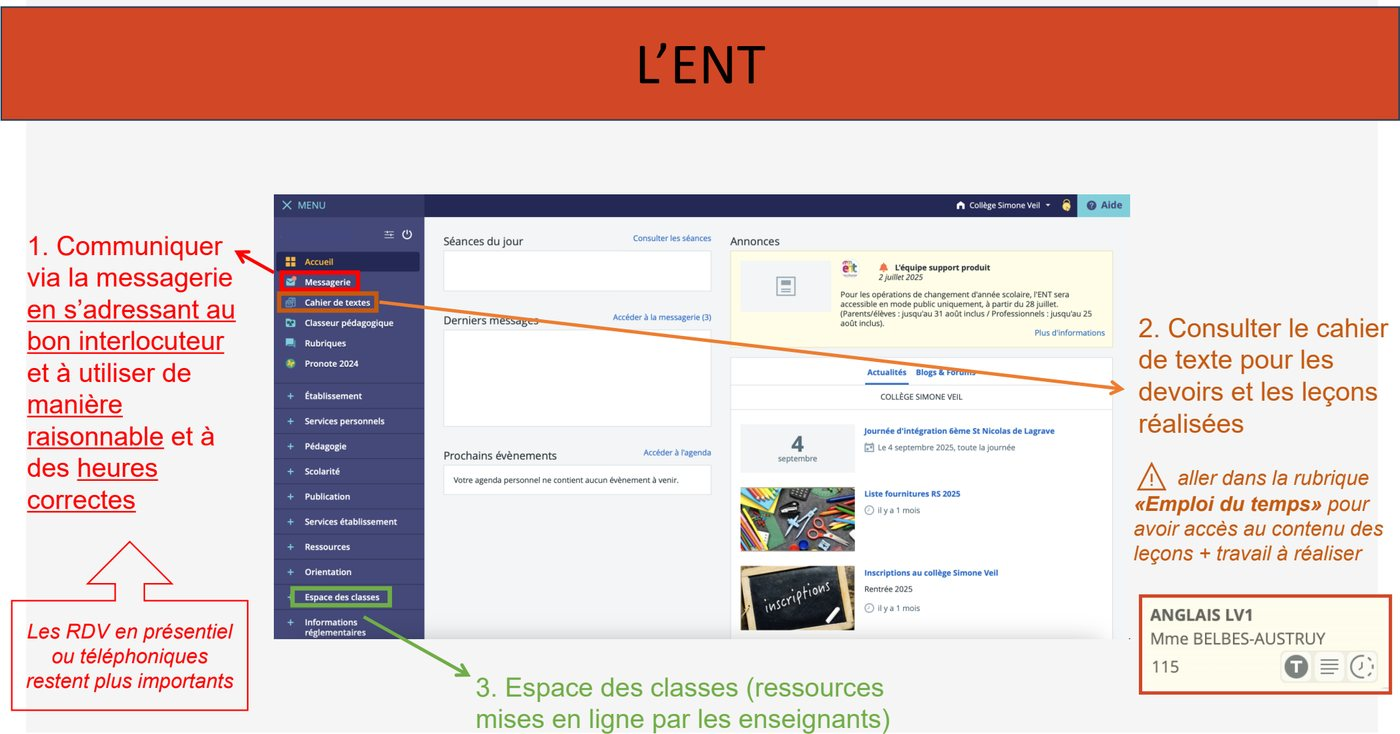
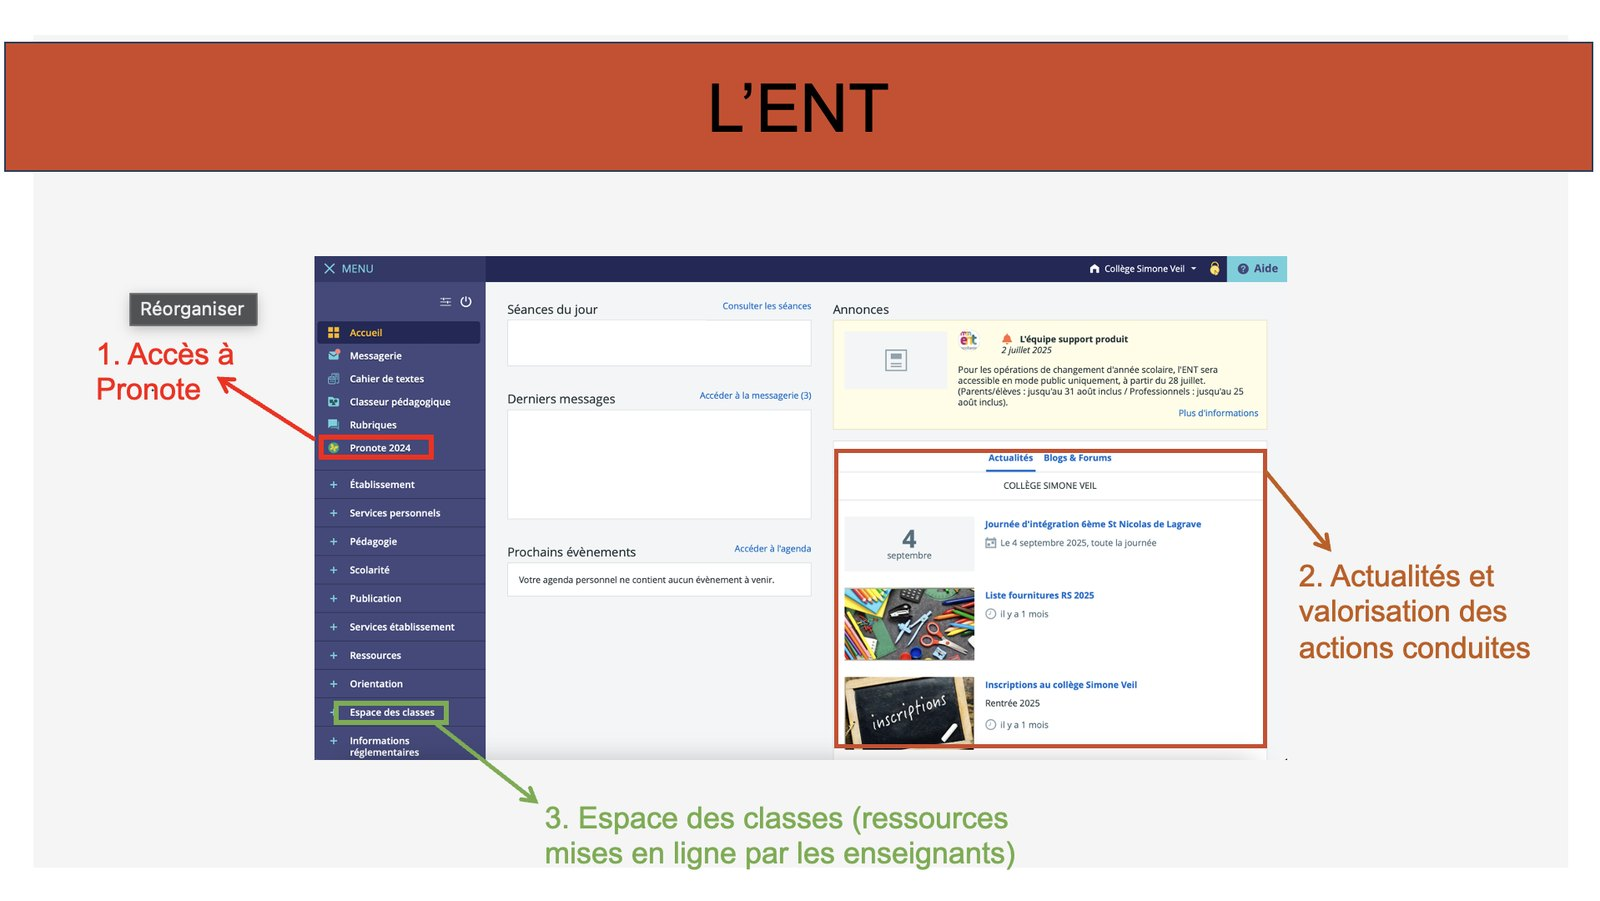
Mon entree en 6e : rubrique ENT et Pronote mise a jour
Ce qui change cette annee
- Un paragraphe d'introduction annonce que Pronote devient l'outil unique
  de reference (cahier de textes, travail a faire, notes et competences,
  messagerie) et que l'ENT garde le casier numerique, la valorisation des
  actions conduites et l'acces a Pronote.

A quoi sert l'ENT
- Nouvelle liste en trois points : espace des classes, actualites et
  valorisation des actions conduites, acces a Pronote. L'ancienne liste
  parlait de messagerie et de cahier de textes, qui relevent desormais de
  Pronote.

A quoi sert Pronote
- Six points, dans l'ordre de la diapositive de la reunion de rentree.
  Deux ajouts : prevenir d'une absence et informer d'une dispense
  ponctuelle ; consulter le cahier de textes et le travail a faire.
- L'encadre « c'est l'agenda qui fait foi » quitte la partie ENT et
  descend au point du cahier de textes, auquel il se rapporte.
- Un encadre signale la suspension des notifications le soir et en fin de
  semaine, au titre du droit a la deconnexion.

Diapositives
- Les deux captures sont remplacees par les versions a jour, reduites a
  1600 px de large et reencodees (ENT 112 Ko, Pronote 195 Ko). Les textes
  alternatifs suivent le nouveau contenu.

Divers
- Les codes des ordinateurs du college sont compares a ceux d'Eduscol, et
  la mention de la fiche papier est retiree.

Claude-Session: https://claude.ai/code/session_01Abn6zVhHPXvTaUa6iAmTfD

Changed region(s): [[0.0, 0.2398, 1.0, 1.0], [0.0, 0.0, 1.0, 0.2098], [0.3071, 0.5995, 0.5221, 0.6594]]

diff --git a/prof-principal-6e.html b/prof-principal-6e.html
@@ -151,31 +151,61 @@
                 L'ENT (Espace Numérique de Travail) et Pronote sont les deux outils que vous utiliserez
                 tous les jours pour suivre votre scolarité et communiquer avec le collège.
               </p>
+              <p>
+                Mais il y a du <strong>nouveau cette année</strong> : <strong>Pronote</strong> constitue
+                l'<strong>outil unique de référence</strong> pour le cahier de textes, le travail à
+                faire, les notes et compétences, et la messagerie. L'<strong>ENT</strong> conservera sa
+                fonction de <strong>casier numérique</strong>, de <strong>valorisation des actions
+                conduites</strong> et d'<span class="surligne">accès à Pronote</span>.
+              </p>
 
               <h4>À quoi sert l'ENT ?</h4>
               <ul>
-                <li><span class="surligne">La messagerie</span> : pour écrire à un professeur ou à un adulte du collège — en s'adressant au <strong>bon interlocuteur</strong> et à des <strong>heures raisonnables</strong>.</li>
-                <li><span class="surligne">Le cahier de texte / l'espace des classes</span> : ce qui a été <strong>fait en cours</strong> et les <strong>ressources</strong> mises en ligne par les enseignants.</li>
+                <li>Retrouver l'<strong>espace des classes</strong> : les <strong>ressources</strong> mises en ligne par les enseignants.</li>
+                <li>Suivre les <strong>actualités</strong> du collège et la <strong>valorisation des actions conduites</strong>.</li>
+                <li><span class="surligne">Accéder à Pronote</span>.</li>
               </ul>
-              <div class="callout callout--info">
-                <p class="mb-0">⚠ C'est <strong>l'agenda papier</strong> qui fait foi pour les devoirs à faire (voir la rubrique « Organiser ses devoirs »).</p>
-              </div>
 
               <figure class="diapo">
-                <img src="assets/college/ent-a-quoi-sert.jpg" alt="Diapositive de la réunion de rentrée présentant la page d'accueil de l'ENT : messagerie, cahier de textes et espace des classes" loading="lazy">
+                <img src="assets/college/ent-a-quoi-sert.jpg" alt="Diapositive de la réunion de rentrée présentant la page d'accueil de l'ENT : l'accès à Pronote dans le menu de gauche, les actualités du collège et l'espace des classes" loading="lazy">
                 <figcaption>La page d'accueil de l'ENT (diapositive de la réunion de rentrée).</figcaption>
               </figure>
 
               <h4>À quoi sert Pronote ?</h4>
               <ul class="mb-0">
                 <li>Consulter l'<span class="surligne">emploi du temps</span>.</li>
-                <li>Consulter les <strong>absences</strong> et les <strong>retards</strong>, et les <span class="surligne">justifier</span>.</li>
+                <li>
+                  Consulter les <strong>absences</strong> et les <strong>retards</strong>, et les
+                  <span class="surligne">justifier</span>. <strong>Prévenir d'une absence</strong> à
+                  venir et <strong>informer d'une dispense ponctuelle</strong>.
+                </li>
                 <li>Consulter le <strong>carnet virtuel</strong> (observations, sanctions, encouragements).</li>
                 <li>Consulter les <strong>notes</strong>, les <strong>compétences</strong> et les <strong>bulletins</strong> trimestriels.</li>
+                <li>
+                  Consulter le <strong>cahier de texte</strong> et le <strong>travail à faire</strong> :
+                  ce qui a été fait en cours, et ce qui est à faire pour les prochaines leçons.
+                  <div class="callout callout--info">
+                    <p class="mb-0">⚠ Pour les devoirs, c'est <strong>l'agenda</strong> qui fait foi (voir la rubrique « Organiser ses devoirs »).</p>
+                  </div>
+                </li>
+                <li>
+                  Accéder à la <strong>messagerie</strong>, pour contacter les professeurs ou la
+                  vie scolaire.
+                  <div class="callout callout--neutral">
+                    <p class="mb-0">
+                      🔕 <strong>Attention :</strong> les notifications (messages, notes, devoirs,
+                      billets de blog, etc.) seront <strong>suspendues par défaut</strong> le soir
+                      (de <strong>20 h à 7 h</strong> le lendemain) et en fin de semaine (du
+                      <strong>vendredi 20 h au lundi 7 h</strong>), afin d'assurer une forme de
+                      <span class="surligne">« droit à la déconnexion »</span> pour les élèves, les
+                      familles et les équipes pédagogiques.
+                    </p>
+                  </div>
+                </li>
               </ul>
 
               <figure class="diapo">
-                <img src="assets/college/pronote.jpg" alt="Diapositive de la réunion de rentrée présentant la page d'accueil de Pronote : emploi du temps, absences, carnet virtuel et notes" loading="lazy">
+                <img src="assets/college/pronote.jpg" alt="Diapositive de la réunion de rentrée présentant la page d'accueil de Pronote : emploi du temps, absences et retards, carnet virtuel, notes et compétences, cahier de textes et messagerie" loading="lazy">
                 <figcaption>La page d'accueil de Pronote (diapositive de la réunion de rentrée).</figcaption>
               </figure>
 
@@ -206,8 +236,8 @@
                 <!-- MODIFIER ICI : le code de session pour les ordinateurs du collège est volontairement
                      absent de cette page publique. Communiquez-le aux familles par un autre moyen
                      (papier, ENT, réunion). -->
-                Les codes de connexion aux <strong>ordinateurs du collège</strong> sont différents de ceux de
-                l'ENT : ils vous ont été communiqués séparément (fiche papier distribuée à la rentrée).
+                Les codes de connexion aux <strong>ordinateurs du collège</strong> sont différents de ceux
+                d'<strong>Eduscol</strong> : ils vous ont été communiqués séparément.
               </p>
 
               <figure class="diapo">
